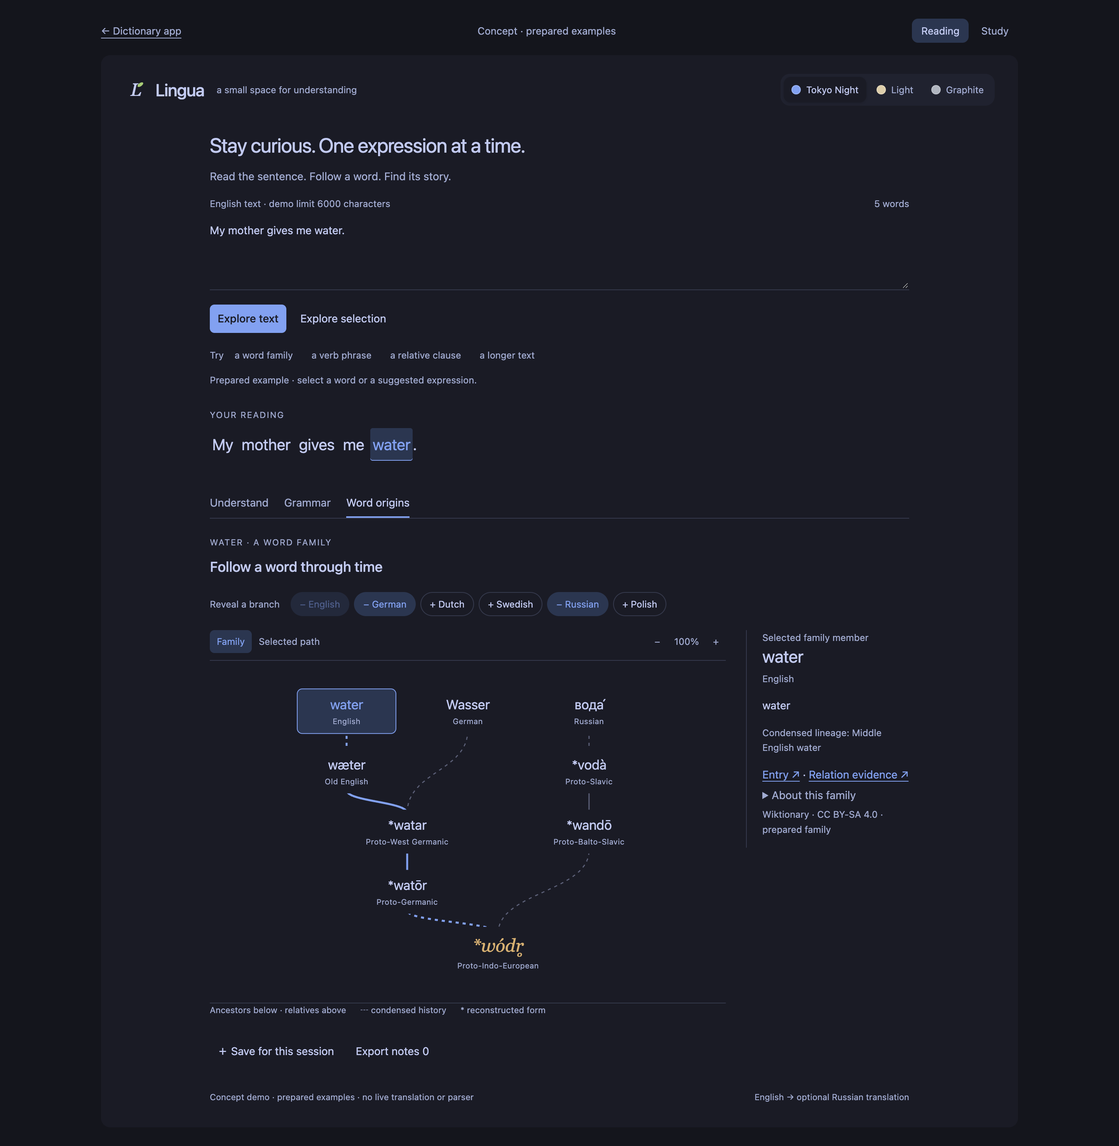
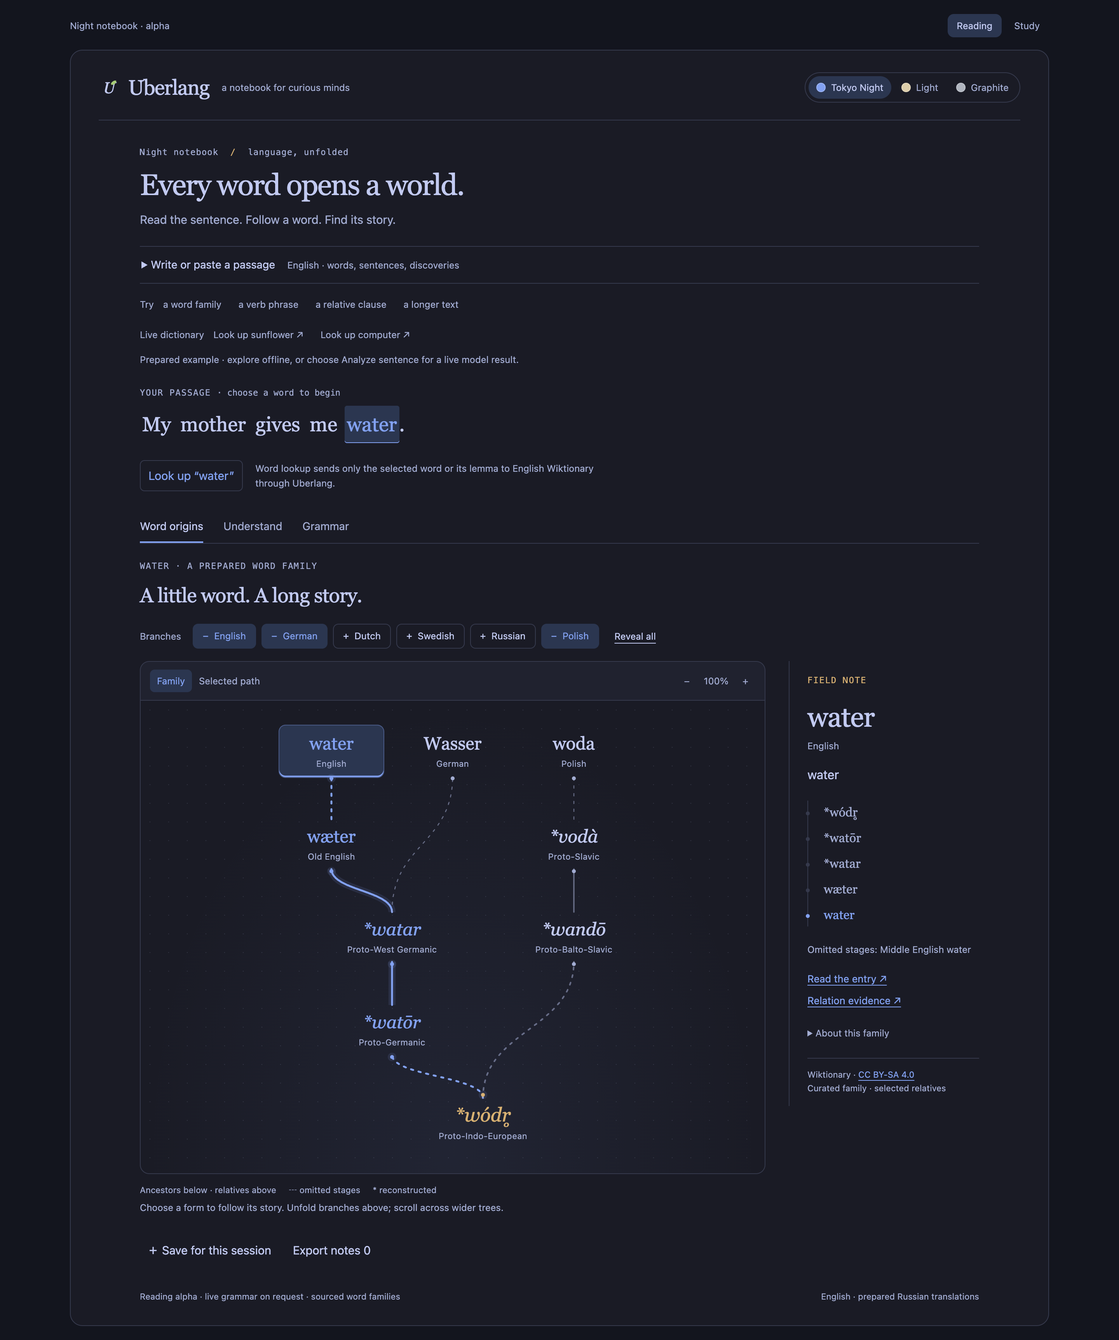
Rename visible product and new exports to Uberlang

diff --git a/web/concept/concept.js b/web/concept/concept.js
@@ -19,7 +19,7 @@ import { mountFamily, mountSyntax, unmountExplorers } from './components/explore
   let saved={};try{saved=JSON.parse(localStorage.getItem('lingua-concept-preferences-v1')||'{}')||{};}catch{}
   const longText = 'Reading is easier when you can explore one small piece at a time.\n\n'+fixtures.examples.map(e=>e.text).join(' ')+'\n\nA longer document can contain many sentences, unfamiliar expressions, and words with several meanings. Instead of translating every paragraph and filling the screen with every possible analysis, choose the particular word or expression you want to understand. Keep the original context nearby. Save the explanation, grammatical relationships, and word history as a study note. Return to the document when you are ready to continue reading. Prepared examples work offline. For any other English sentence, select a word and choose Analyze sentence to request its grammar.';
   function shell(app){
-    app.innerHTML=`<header class="lp-header"><div class="lp-brand"><img src="${new URL('./favicon.svg', import.meta.url).href}" alt="" aria-hidden="true"><span>Lingua</span></div><span class="lp-label">a notebook for curious minds</span><div class="lp-theme" role="group" aria-label="Color theme"><button data-theme-choice="tokyo" aria-pressed="true" aria-label="Tokyo Night theme"><span class="lp-theme-swatch" style="--swatch:#7aa2f7" aria-hidden="true"></span>Tokyo Night</button><button data-theme-choice="light" aria-pressed="false" aria-label="Light theme"><span class="lp-theme-swatch" style="--swatch:#e0cda5" aria-hidden="true"></span>Light</button><button data-theme-choice="graphite" aria-pressed="false" aria-label="Graphite theme"><span class="lp-theme-swatch" style="--swatch:#afb5c0" aria-hidden="true"></span>Graphite</button></div></header><div class="lp-shell"><div class="lp-notebook-label">Night notebook <span aria-hidden="true">/</span> language, unfolded</div><h2 class="lp-intro">Every word opens a world.</h2><p class="lp-sub">Read the sentence. Follow a word. Find its story.</p><div class="lp-main-area"><section><details class="lp-composer"><summary>Write or paste a passage <span class="lp-label">English · words, sentences, discoveries</span></summary><div class="lp-composer-body"><div class="lp-editor-top"><label class="lp-label" for="${app.id}-input">English text · up to 6000 characters</label><span class="lp-label" data-ui="count"></span></div><textarea class="lp-editor" id="${app.id}-input" data-ui="input" spellcheck="false" maxlength="6000" aria-label="English text"></textarea><div class="lp-actions"><button class="lp-main" data-action="live">Analyze sentence</button><button data-action="cancel" hidden>Cancel</button><button data-action="analyze">Explore offline</button><button data-action="selection">Explore selection</button></div><p class="lp-label lp-privacy">Analyze sentence sends only the sentence around your selection or cursor (up to 50 words / 500 characters) to Lingua’s language engine. Other text stays in this browser. Prepared examples work offline.</p><div class="lp-live-status" data-ui="live-status" role="status" aria-live="polite"></div><details class="lp-model-notes" data-ui="model-notes" hidden><summary>About this analysis</summary><div data-ui="model-evidence"></div></details></div></details><div class="lp-examples"><span>Try</span><button data-example="mother-water">a word family</button><button data-example="present-perfect-progressive">a verb phrase</button><button data-example="relative-clause">a relative clause</button><button data-example="long">a longer text</button></div><div class="lp-examples"><span>Live dictionary</span><button data-live-example="sunflower">Look up sunflower ↗</button><button data-live-example="computer">Look up computer ↗</button></div><div class="lp-status" data-ui="status" role="status" aria-live="polite"></div><div class="lp-section-label">Your passage <span class="lp-reading-hint">· choose a word to begin</span></div><div class="lp-source" data-ui="source" aria-label="Select a word in the source text"></div><div data-ui="phrases" class="lp-phrase-row"></div><div class="lp-lexical-actions"><div class="lp-actions"><button data-action="lexicon">Look up word</button><button data-action="cancel-lexicon" hidden>Cancel lookup</button></div><p class="lp-label">Word lookup sends only the selected word or its lemma to English Wiktionary through Lingua.</p><div class="lp-live-status" data-ui="lexical-status" role="status" aria-live="polite"></div></div></section><section><nav class="lp-tabs" aria-label="Analysis view"><button data-view="origins" aria-pressed="false">Word origins</button><button data-view="understand" aria-pressed="true">Understand</button><button data-view="grammar" aria-pressed="false">Grammar</button></nav><div data-ui="content"></div><div class="lp-actions"><button data-action="save">＋ Save for this session</button><button data-action="export">Export notes <span data-ui="note-count">0</span></button></div></section></div><section class="lp-notes" data-ui="notes" hidden></section><section class="lp-export" data-ui="export" hidden><div class="lp-actions"><h3 style="margin:0">Your study notes</h3><label class="lp-label">Format <select data-action="format"><option value="markdown">Markdown</option><option value="json">JSON</option><option value="html">HTML report</option></select></label><button data-action="download">Download report</button><button data-action="copy">Copy report</button><button data-action="close-export" aria-label="Close export">Close</button></div><p class="lp-label">Includes saved fragments, context, explanations, grammar, and available origin sources.</p><div class="lp-report-preview" data-ui="report-preview" hidden></div><textarea data-ui="report" readonly aria-label="Exported study report"></textarea><div class="lp-label" data-ui="copy-status" role="status" aria-live="polite"></div></section><footer class="lp-footer"><span>Reading alpha · live grammar on request · sourced word families</span><span>English · prepared Russian translations</span></footer></div>`;
+    app.innerHTML=`<header class="lp-header"><div class="lp-brand"><img src="${new URL('./favicon.svg', import.meta.url).href}" alt="" aria-hidden="true"><span>Uberlang</span></div><span class="lp-label">a notebook for curious minds</span><div class="lp-theme" role="group" aria-label="Color theme"><button data-theme-choice="tokyo" aria-pressed="true" aria-label="Tokyo Night theme"><span class="lp-theme-swatch" style="--swatch:#7aa2f7" aria-hidden="true"></span>Tokyo Night</button><button data-theme-choice="light" aria-pressed="false" aria-label="Light theme"><span class="lp-theme-swatch" style="--swatch:#e0cda5" aria-hidden="true"></span>Light</button><button data-theme-choice="graphite" aria-pressed="false" aria-label="Graphite theme"><span class="lp-theme-swatch" style="--swatch:#afb5c0" aria-hidden="true"></span>Graphite</button></div></header><div class="lp-shell"><div class="lp-notebook-label">Night notebook <span aria-hidden="true">/</span> language, unfolded</div><h2 class="lp-intro">Every word opens a world.</h2><p class="lp-sub">Read the sentence. Follow a word. Find its story.</p><div class="lp-main-area"><section><details class="lp-composer"><summary>Write or paste a passage <span class="lp-label">English · words, sentences, discoveries</span></summary><div class="lp-composer-body"><div class="lp-editor-top"><label class="lp-label" for="${app.id}-input">English text · up to 6000 characters</label><span class="lp-label" data-ui="count"></span></div><textarea class="lp-editor" id="${app.id}-input" data-ui="input" spellcheck="false" maxlength="6000" aria-label="English text"></textarea><div class="lp-actions"><button class="lp-main" data-action="live">Analyze sentence</button><button data-action="cancel" hidden>Cancel</button><button data-action="analyze">Explore offline</button><button data-action="selection">Explore selection</button></div><p class="lp-label lp-privacy">Analyze sentence sends only the sentence around your selection or cursor (up to 50 words / 500 characters) to Uberlang’s language engine. Other text stays in this browser. Prepared examples work offline.</p><div class="lp-live-status" data-ui="live-status" role="status" aria-live="polite"></div><details class="lp-model-notes" data-ui="model-notes" hidden><summary>About this analysis</summary><div data-ui="model-evidence"></div></details></div></details><div class="lp-examples"><span>Try</span><button data-example="mother-water">a word family</button><button data-example="present-perfect-progressive">a verb phrase</button><button data-example="relative-clause">a relative clause</button><button data-example="long">a longer text</button></div><div class="lp-examples"><span>Live dictionary</span><button data-live-example="sunflower">Look up sunflower ↗</button><button data-live-example="computer">Look up computer ↗</button></div><div class="lp-status" data-ui="status" role="status" aria-live="polite"></div><div class="lp-section-label">Your passage <span class="lp-reading-hint">· choose a word to begin</span></div><div class="lp-source" data-ui="source" aria-label="Select a word in the source text"></div><div data-ui="phrases" class="lp-phrase-row"></div><div class="lp-lexical-actions"><div class="lp-actions"><button data-action="lexicon">Look up word</button><button data-action="cancel-lexicon" hidden>Cancel lookup</button></div><p class="lp-label">Word lookup sends only the selected word or its lemma to English Wiktionary through Uberlang.</p><div class="lp-live-status" data-ui="lexical-status" role="status" aria-live="polite"></div></div></section><section><nav class="lp-tabs" aria-label="Analysis view"><button data-view="origins" aria-pressed="false">Word origins</button><button data-view="understand" aria-pressed="true">Understand</button><button data-view="grammar" aria-pressed="false">Grammar</button></nav><div data-ui="content"></div><div class="lp-actions"><button data-action="save">＋ Save for this session</button><button data-action="export">Export notes <span data-ui="note-count">0</span></button></div></section></div><section class="lp-notes" data-ui="notes" hidden></section><section class="lp-export" data-ui="export" hidden><div class="lp-actions"><h3 style="margin:0">Your study notes</h3><label class="lp-label">Format <select data-action="format"><option value="markdown">Markdown</option><option value="json">JSON</option><option value="html">HTML report</option></select></label><button data-action="download">Download report</button><button data-action="copy">Copy report</button><button data-action="close-export" aria-label="Close export">Close</button></div><p class="lp-label">Includes saved fragments, context, explanations, grammar, and available origin sources.</p><div class="lp-report-preview" data-ui="report-preview" hidden></div><textarea data-ui="report" readonly aria-label="Exported study report"></textarea><div class="lp-label" data-ui="copy-status" role="status" aria-live="polite"></div></section><footer class="lp-footer"><span>Reading alpha · live grammar on request · sourced word families</span><span>English · prepared Russian translations</span></footer></div>`;
   }
   const persist = s => {try{localStorage.setItem('lingua-concept-preferences-v1',JSON.stringify({theme:s.theme,view:s.view}));}catch{}};
   function init(app){
@@ -112,7 +112,7 @@ import { mountFamily, mountSyntax, unmountExplorers } from './components/explore
         const extension={markdown:'md',json:'json',html:'html'}[s.format];
         const blob=new Blob([ui('report').value],{type:mime+';charset=utf-8'});
         const url=URL.createObjectURL(blob),link=document.createElement('a');
-        link.href=url;link.download='lingua-study-notes.'+extension;
+        link.href=url;link.download='uberlang-study-notes.'+extension;
         link.click();setTimeout(()=>URL.revokeObjectURL(url),1000);
         ui('copy-status').textContent='Report download started.';return;
       }
@@ -254,9 +254,9 @@ import { mountFamily, mountSyntax, unmountExplorers } from './components/explore
   function renderNotes(app,s){const notes=app.querySelector('[data-ui="notes"]');notes.hidden=!s.notes.length;notes.innerHTML=`<div class="lp-section-label" style="margin-top:0">Study notes · this session</div><p class="lp-label">Export to keep your notes. Reloading clears this session.</p>${s.notes.map(n=>`<div class="lp-note"><div><strong>${esc(n.selectedText)}</strong><div class="lp-label">${esc(n.scope)} · ${n.start}–${n.end} · ${esc(n.status)}</div></div><button data-remove="${esc(n.id)}" aria-label="Remove note ${esc(n.selectedText)}">Remove</button></div>`).join('')}`;app.querySelector('[data-ui="note-count"]').textContent=s.notes.length;}
   function updateExport(app,s){
     const list=s.notes.length?s.notes:[currentNote(s)];let output='';
-    if(s.format==='json'){const documents=exportDocuments(list,s.documents,{id:hash(s.text),text:s.text});output=JSON.stringify({schemaVersion:1,language:'en',coordinateSystem:'UTF-16, end-exclusive',provenance:'Each note records its own grammar provenance. Meaning, translation and word history are separate layers.',documents,notes:list},null,2);}
-    else if(s.format==='markdown'){output='# Lingua study notes\n\nEach note records its analysis source. Positions use UTF-16, end-exclusive.\n\n'+list.map(n=>`## ${n.selectedText}\n\nSource: ${n.documentId}, positions ${n.start}–${n.end}. Scope: ${n.scope}.\n\nProvenance: ${n.provenance}${n.warnings?.length?' '+n.warnings.join(' '):''}\n\nContext: ${n.context}\n\n${n.explanationSource||'unavailable'}: ${n.explanation||'No meaning explanation available.'}\n${n.meaningCaveat||''}\n\n${dictionaryMarkdown(n)}${n.translation?'Russian translation of the context: '+n.translation+'\n\n':''}${n.grammar?'Grammar: '+n.grammar.pos+', lemma '+n.grammar.lemma+', relation '+n.grammar.relation+', head '+(n.grammar.head||'root')+'.\nFeatures: '+JSON.stringify(n.grammar.features)+'\n\n':''}${n.dependencies.length?'Context dependencies (dependent → head):\n'+n.dependencies.filter(t=>t.pos!=='PUNCT').map(t=>'- '+t.text+' ('+t.pos+'): '+t.relation+' → '+(t.head?n.dependencies[t.head-1].text:'root')).join('\n')+'\n\n':''}${originsMarkdown(n)}`).join('\n');}
-    else {output='<'+'!doctype html>\n'+'<'+'html lang="en"><meta charset="utf-8"><title>Lingua study notes</title><style>body{font:16px/1.6 system-ui;max-width:850px;margin:40px auto;padding:20px;color:#263244;background:#fff}article{border-top:1px solid #ddd;padding:20px 0}table{border-collapse:collapse;width:100%}td,th{text-align:left;padding:8px;border-bottom:1px solid #eee;overflow-wrap:anywhere}small{color:#556}svg{max-width:100%;height:auto}details{margin:16px 0}@media(max-width:540px){svg{display:none}details>table{display:table}}@media print{body{margin:0}details>table{display:table}svg{break-inside:avoid}}</style><h1>Lingua study notes</h1><p>Analysis sources are recorded per note. Model predictions may be incorrect.</p>'+reportArticles(list)+'</html>';}
+    if(s.format==='json'){const documents=exportDocuments(list,s.documents,{id:hash(s.text),text:s.text});output=JSON.stringify({application:'Uberlang',schemaVersion:1,language:'en',coordinateSystem:'UTF-16, end-exclusive',provenance:'Each note records its own grammar provenance. Meaning, translation and word history are separate layers.',documents,notes:list},null,2);}
+    else if(s.format==='markdown'){output='# Uberlang study notes\n\nEach note records its analysis source. Positions use UTF-16, end-exclusive.\n\n'+list.map(n=>`## ${n.selectedText}\n\nSource: ${n.documentId}, positions ${n.start}–${n.end}. Scope: ${n.scope}.\n\nProvenance: ${n.provenance}${n.warnings?.length?' '+n.warnings.join(' '):''}\n\nContext: ${n.context}\n\n${n.explanationSource||'unavailable'}: ${n.explanation||'No meaning explanation available.'}\n${n.meaningCaveat||''}\n\n${dictionaryMarkdown(n)}${n.translation?'Russian translation of the context: '+n.translation+'\n\n':''}${n.grammar?'Grammar: '+n.grammar.pos+', lemma '+n.grammar.lemma+', relation '+n.grammar.relation+', head '+(n.grammar.head||'root')+'.\nFeatures: '+JSON.stringify(n.grammar.features)+'\n\n':''}${n.dependencies.length?'Context dependencies (dependent → head):\n'+n.dependencies.filter(t=>t.pos!=='PUNCT').map(t=>'- '+t.text+' ('+t.pos+'): '+t.relation+' → '+(t.head?n.dependencies[t.head-1].text:'root')).join('\n')+'\n\n':''}${originsMarkdown(n)}`).join('\n');}
+    else {output='<'+'!doctype html>\n'+'<'+'html lang="en"><meta charset="utf-8"><title>Uberlang study notes</title><style>body{font:16px/1.6 system-ui;max-width:850px;margin:40px auto;padding:20px;color:#263244;background:#fff}article{border-top:1px solid #ddd;padding:20px 0}table{border-collapse:collapse;width:100%}td,th{text-align:left;padding:8px;border-bottom:1px solid #eee;overflow-wrap:anywhere}small{color:#556}svg{max-width:100%;height:auto}details{margin:16px 0}@media(max-width:540px){svg{display:none}details>table{display:table}}@media print{body{margin:0}details>table{display:table}svg{break-inside:avoid}}</style><h1>Uberlang study notes</h1><p>Analysis sources are recorded per note. Model predictions may be incorrect.</p>'+reportArticles(list)+'</html>';}
     const preview=app.querySelector('[data-ui="report-preview"]');preview.hidden=s.format!=='html';preview.innerHTML=s.format==='html'?reportArticles(list,preview.clientWidth):'';
     app.querySelector('[data-ui="report"]').value=output;app.querySelector('[data-ui="copy-status"]').textContent=s.notes.length?`${s.notes.length} saved ${s.notes.length===1?'insight':'insights'} in the report.`:'No saved notes yet: exporting the current selection.';
   }

diff --git a/web/index.html b/web/index.html
@@ -3,9 +3,9 @@
 <head>
   <meta charset="utf-8">
   <meta name="viewport" content="width=device-width, initial-scale=1">
-  <meta name="description" content="Explore Lingua: selected expressions, grammar, word families, and study notes. Live English grammar on request, with offline prepared examples.">
+  <meta name="description" content="Explore Uberlang: selected expressions, grammar, word families, and study notes. Live English grammar on request, with offline prepared examples.">
   <meta http-equiv="Content-Security-Policy" content="default-src 'self'; script-src 'self'; style-src 'self' 'unsafe-inline'; img-src 'self' data:; connect-src 'self'; object-src 'none'; base-uri 'self'">
-  <title>Lingua — Night notebook</title>
+  <title>Uberlang — Night notebook</title>
   <link rel="icon" type="image/svg+xml" href="./concept/favicon.svg">
   <link rel="stylesheet" href="./concept/concept.css">
 </head>
@@ -24,7 +24,7 @@
       <span role="status" data-backup-status></span>
     </aside>
 <div id="lingua-concept">
-  <div class="lp-variants" aria-label="Lingua design concepts">
+  <div class="lp-variants" aria-label="Uberlang design concepts">
     <section data-variant="Reading" aria-label="Reading workspace"><div class="lp" id="lingua-reading" data-theme="tokyo" data-layout="reading"></div></section>
     <section data-variant="Study" aria-label="Study workspace" hidden><div class="lp" id="lingua-study" data-theme="tokyo" data-layout="study"></div></section>
   </div>

diff --git a/src/renderer/src/components/ShareCard.tsx b/src/renderer/src/components/ShareCard.tsx
@@ -41,7 +41,7 @@ function drawCard (
 
   ctx.fillStyle = ink
   ctx.font = '700 44px -apple-system, Segoe UI, Roboto, sans-serif'
-  ctx.fillText('Lingua', 80, 130)
+  ctx.fillText('Uberlang', 80, 130)
   ctx.fillStyle = muted
   ctx.font = '400 30px -apple-system, Segoe UI, Roboto, sans-serif'
   ctx.fillText('etymology · shared roots', 80, 175)
@@ -119,7 +119,7 @@ export default function ShareCard (props: Props) {
       const url = URL.createObjectURL(blob)
       const link = document.createElement('a')
       link.href = url
-      link.download = `lingua-${props.word.toLowerCase()}.png`
+      link.download = `uberlang-${props.word.toLowerCase()}.png`
       link.click()
       URL.revokeObjectURL(url)
     }, 'image/png')
@@ -149,7 +149,7 @@ export default function ShareCard (props: Props) {
           sx={{ width: '100%', borderRadius: 2, display: 'block', bgcolor: 'background.paper' }}
         />
         <Typography variant="caption" color="text.secondary" sx={{ display: 'block', mt: 1 }}>
-          Post the image anywhere, or copy a link back to Lingua.
+          Post the image anywhere, or copy a link back to Uberlang.
         </Typography>
       </DialogContent>
       <DialogActions>

diff --git a/server/src/app.ts b/server/src/app.ts
@@ -42,7 +42,7 @@ export async function buildApp(config: Config, dependencies: {
   const apiSecurity = [{ bearerAuth: [] }]
 
   await app.register(helmet)
-  await app.register(swagger, { openapi: { info: { title: 'Lingua API', version: '1.0.0', description: 'English language analysis and opt-in live translation. Capabilities identify the configured engine.' }, components: { securitySchemes: { bearerAuth: { type: 'http', scheme: 'bearer' } } } } })
+  await app.register(swagger, { openapi: { info: { title: 'Uberlang API', version: '1.0.0', description: 'English language analysis and opt-in live translation. Capabilities identify the configured engine.' }, components: { securitySchemes: { bearerAuth: { type: 'http', scheme: 'bearer' } } } } })
   await app.register(rateLimit, { max: config.rateMax, timeWindow: 60000, cache: 5000 })
   app.addHook('onRequest', async (request, reply) => {
     reply.header('X-Request-Id', request.id).header('Cache-Control', 'no-store')

diff --git a/server/src/public-gateway.ts b/server/src/public-gateway.ts
@@ -57,7 +57,7 @@ async function publicRequest(route: '/v1/analysis' | '/v1/lexicon' | '/v1/etymol
   response.setHeader('X-Content-Type-Options', 'nosniff')
   try {
     if (request.method !== 'POST') { response.setHeader('Allow', 'POST'); throw new ServiceError(405, 'METHOD_NOT_ALLOWED', 'Use POST') }
-    if (!publicOriginAllowed(request.headers.origin, process.env)) throw new ServiceError(403, 'ORIGIN_REJECTED', 'Use the Lingua reading workspace')
+    if (!publicOriginAllowed(request.headers.origin, process.env)) throw new ServiceError(403, 'ORIGIN_REJECTED', 'Use the Uberlang reading workspace')
     if (!/^application\/json(?:\s*;|$)/i.test(request.headers['content-type'] ?? '')) throw new ServiceError(415, 'UNSUPPORTED_MEDIA_TYPE', 'Use application/json')
     const body = await readBody(request)
     const { app } = await getService()

diff --git a/server/src/public-dev.ts b/server/src/public-dev.ts
@@ -6,4 +6,4 @@ createServer((request, response) => {
   else if (request.url === '/api/lexicon') void publicLexicon(request, response)
   else if (request.url === '/api/etymology') void publicEtymology(request, response)
   else { response.statusCode = 404; response.end() }
-}).listen(8788, '127.0.0.1', () => console.log('Lingua public adapter: http://127.0.0.1:8788'))
+}).listen(8788, '127.0.0.1', () => console.log('Uberlang public adapter: http://127.0.0.1:8788'))

diff --git a/src/renderer/src/App.tsx b/src/renderer/src/App.tsx
@@ -77,7 +77,7 @@ export default function App () {
             <Avatar sx={{ bgcolor: 'primary.main', color: 'primary.contrastText' }}>L</Avatar>
             <Box sx={{ flexGrow: 1 }}>
               <Typography variant="subtitle1" sx={{ fontWeight: 600, lineHeight: 1.2 }}>
-                Lingua
+                Uberlang
               </Typography>
               <Typography variant="caption" color="text.secondary">
                 every word has a family

diff --git a/web/concept/index.html b/web/concept/index.html
@@ -4,7 +4,7 @@
   <meta charset="utf-8">
   <meta name="viewport" content="width=device-width, initial-scale=1">
   <meta http-equiv="Content-Security-Policy" content="default-src 'self'; script-src 'self'; style-src 'self'; connect-src 'none'; object-src 'none'; base-uri 'self'">
-  <title>Lingua — Open notebook</title>
+  <title>Uberlang — Open notebook</title>
   <link rel="icon" type="image/svg+xml" href="./favicon.svg">
 </head>
 <body>

diff --git a/web/concept/roots-backup.ts b/web/concept/roots-backup.ts
@@ -13,7 +13,7 @@ export function mountRootsBackup() {
     const url = URL.createObjectURL(new Blob([raw!], { type: 'application/json' }))
     const link = document.createElement('a')
     link.href = url
-    link.download = 'lingua-saved-roots-backup.json'
+    link.download = 'uberlang-saved-roots-backup.json'
     document.body.append(link)
     link.click()
     link.remove()

diff --git a/server/src/index.ts b/server/src/index.ts
@@ -17,6 +17,6 @@ try {
   process.once('SIGTERM', () => { void stop() })
   await app.listen({ host: config.host, port: config.port })
 } catch {
-  console.error('Lingua API failed to start. Check configuration and port availability.')
+  console.error('Uberlang API failed to start. Check configuration and port availability.')
   process.exitCode = 1
 }

diff --git a/src/renderer/index.html b/src/renderer/index.html
@@ -11,7 +11,7 @@
       http-equiv="Content-Security-Policy"
       content="default-src 'self'; script-src 'self' 'unsafe-inline'; style-src 'self' 'unsafe-inline'; img-src 'self' data:; connect-src 'self' ws: wss:"
     />
-    <title>Lingua</title>
+    <title>Uberlang</title>
   </head>
   <body>
     <div id="root"></div>

diff --git a/extension/src/Popup.tsx b/extension/src/Popup.tsx
@@ -90,7 +90,7 @@ export default function Popup () {
           bgcolor: 'background.default'
         }}
       >
-        <Typography variant="h6">Lingua · etymology</Typography>
+        <Typography variant="h6">Uberlang · etymology</Typography>
 
         <TextField
           size="small"
